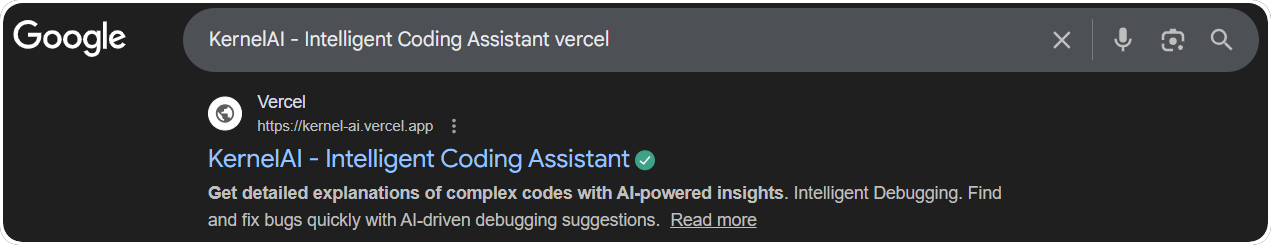
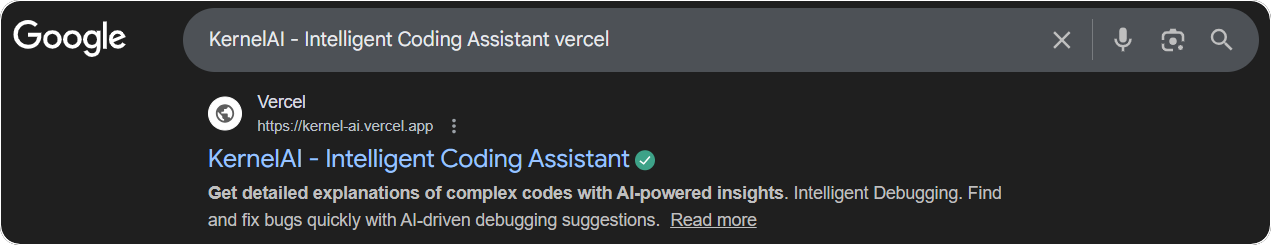
Added Images

Changed region(s): [[0.0, 0.9143, 1.0, 1.0], [0.0, 0.0, 1.0, 0.0857]]

diff --git a/README.md b/README.md
@@ -29,11 +29,18 @@
 
 <h2>
 <a href="https://www.youtube.com/watch?v=paz9vs8QPfk" target="_blank" rel="noopener noreferrer">
-<p><img src="./public/kernelAI-logo.png" width="30" alt="KernelAI Logo" valign="middle" />&nbsp;KernelAI Preview Video</p>
+<p><img src="./public/kernelAI-logo.png" width="30" alt="KernelAI Video" valign="middle" />&nbsp;KernelAI Preview Video</p>
 <p>
 &nbsp;Click here to watch the full video on YouTube<br/>
-<img src="./public/kernelAIGIF.gif"  alt="CodeElevate Demo Video" height="45%" valign="middle"/>
+<img src="./public/kernelAIGIF.gif"  alt="KernelAI Video GIF" height="45%" valign="middle"/>
 </p>
+</a>
+</h2>
+
+<h2>
+<a href="https://www.google.com/search?q=Kernel+AI+-+Intelligent+Coding+Assistant+vercel" target="_blank" rel="noopener noreferrer">
+<p>SEO Result</p>
+<p><img src="./public/kernelAISEOResult.png" width="95%" alt="KernelAI SEO Result Image"/></p>
 </a>
 </h2>
 
